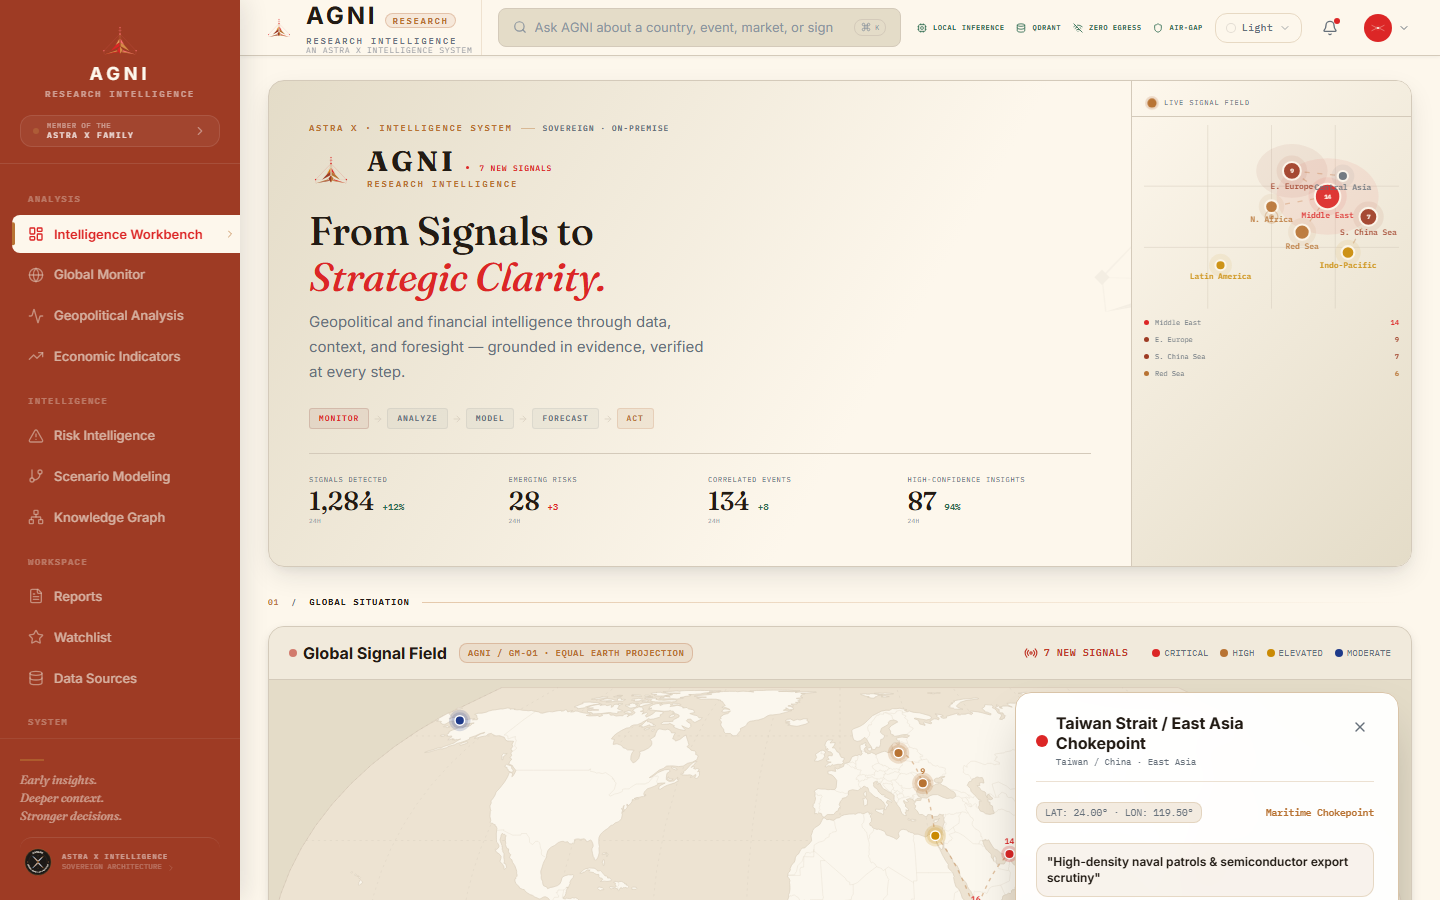
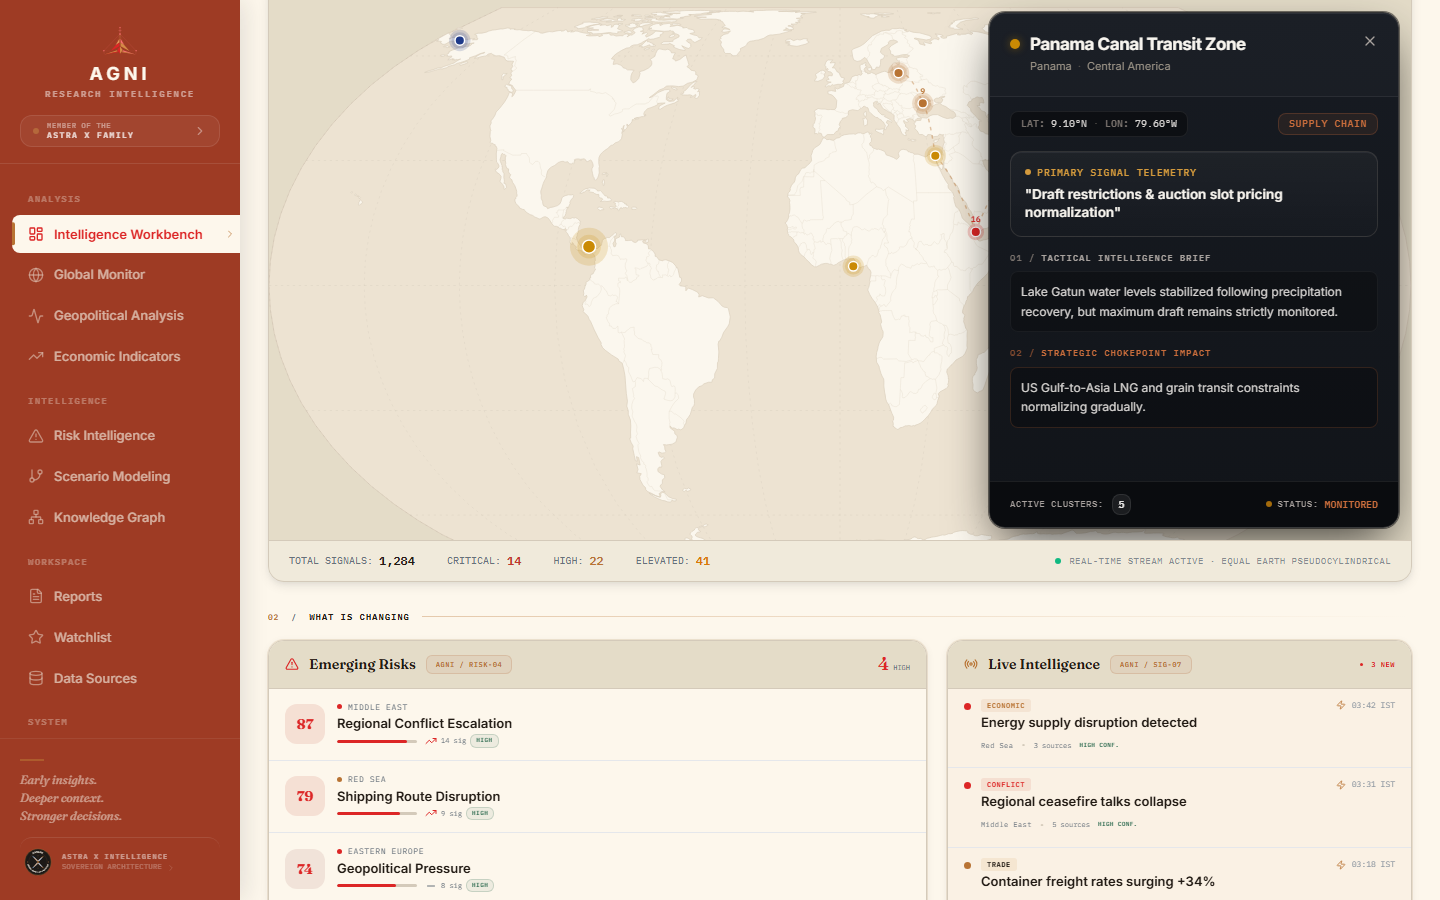
style: refine global signal field intelligence overview card
- refine surface to deep charcoal/warm-black with subtle inner highlight
- elevate primary signal headline inside structured inset
- improve typography hierarchy for tactical and strategic fields
- add monospace coordinate chip and category classification pill
- enhance bottom status strip with active clusters telemetry

diff --git a/frontend/src/components/GlobalSignalField.tsx b/frontend/src/components/GlobalSignalField.tsx
@@ -539,78 +539,120 @@ export const GlobalSignalField: React.FC<{ className?: string; liveCount?: numbe
           </div>
         )}
 
-        {/* ── Signal Detail Drawer (On Node Click) ───────────────────── */}
+        {/* ── Signal Detail Dossier Card (On Node Click) ─────────────── */}
         {activeSignal && (
           <div
-            className="absolute top-3 right-3 bottom-3 w-80 sm:w-96 rounded-xl shadow-2xl border p-5 z-30 flex flex-col justify-between animate-fadeIn bg-white/95 dark:bg-neutral-900/95 border-astra-sandstone-dark"
-            style={{ backdropFilter: 'blur(16px)' }}
+            className="absolute top-3 right-3 bottom-3 w-80 sm:w-[410px] max-w-[calc(100%-24px)] rounded-xl border z-30 flex flex-col justify-between animate-fadeIn text-stone-200 overflow-hidden"
+            style={{
+              background: 'linear-gradient(180deg, #171B22 0%, #111419 100%)',
+              borderColor: 'rgba(214, 197, 178, 0.18)',
+              boxShadow: '0 20px 50px -10px rgba(0, 0, 0, 0.75), inset 0 1px 0 rgba(255, 255, 255, 0.08), 0 0 0 1px rgba(0, 0, 0, 0.5)',
+            }}
           >
-            <div className="space-y-4 overflow-y-auto pr-1">
-              <div className="flex items-start justify-between gap-3 pb-3 border-b border-astra-sandstone-dark/50">
-                <div className="flex items-center gap-2">
+            {/* Header: Status Indicator + Location + Close */}
+            <div className="p-4 sm:p-5 pb-3 border-b border-white/[0.07] bg-white/[0.02]">
+              <div className="flex items-start justify-between gap-3">
+                <div className="flex items-start gap-2.5 min-w-0">
                   <div
-                    className="w-3 h-3 rounded-full"
-                    style={{ backgroundColor: SEVERITY_COLORS[activeSignal.severity].fill }}
+                    className="w-2.5 h-2.5 rounded-full mt-1.5 shrink-0"
+                    style={{
+                      backgroundColor: SEVERITY_COLORS[activeSignal.severity].fill,
+                      boxShadow: `0 0 8px ${SEVERITY_COLORS[activeSignal.severity].fill}70`,
+                    }}
                   />
-                  <div>
-                    <h4 className="font-serif font-bold text-base text-astra-ink leading-tight">
+                  <div className="min-w-0">
+                    <h4 className="font-serif font-bold text-base sm:text-[17px] text-[#F7F4EE] leading-snug tracking-tight truncate">
                       {activeSignal.name}
                     </h4>
-                    <div className="font-mono text-[9px] text-astra-slate mt-0.5">
-                      {activeSignal.country} · {activeSignal.region}
+                    <div className="font-sans text-[11px] text-[#9E9689] mt-0.5 flex items-center gap-1.5">
+                      <span>{activeSignal.country}</span>
+                      <span className="text-stone-600">·</span>
+                      <span>{activeSignal.region}</span>
                     </div>
                   </div>
                 </div>
 
                 <button
                   onClick={() => setActiveSignal(null)}
-                  className="p-1.5 rounded-lg hover:bg-black/5 dark:hover:bg-white/5 text-astra-slate"
+                  className="p-1 rounded-md text-stone-400 hover:text-stone-200 hover:bg-white/[0.08] transition-colors shrink-0 -mr-1 -mt-1"
                   aria-label="Close dossier"
                 >
                   <X className="w-4 h-4" />
                 </button>
               </div>
+            </div>
 
-              {/* Coordinates & Category Pill */}
-              <div className="flex items-center justify-between text-[9.5px] font-mono py-1">
-                <span className="px-2 py-0.5 rounded bg-astra-sandstone/50 border border-astra-sandstone-dark/60 text-astra-slate">
-                  LAT: {activeSignal.latitude.toFixed(2)}° · LON: {activeSignal.longitude.toFixed(2)}°
-                </span>
-                <span className="font-semibold text-agni-copper">
-                  {activeSignal.category}
-                </span>
-              </div>
-
-              {/* Headline */}
-              <div className="p-2.5 rounded-lg bg-astra-sandstone/30 border border-astra-sandstone-dark/60 font-serif text-xs font-semibold text-astra-ink">
-                "{activeSignal.headline}"
-              </div>
-
-              {/* Analytical Brief */}
-              <div className="space-y-1">
-                <div className="font-mono text-[8px] tracking-widest uppercase text-astra-slate font-bold">
-                  TACTICAL INTELLIGENCE BRIEF
+            {/* Structured Intelligence Body */}
+            <div className="px-4 sm:px-5 py-3.5 space-y-3.5 overflow-y-auto flex-1 custom-scrollbar">
+              {/* Coordinates Chip & Category Pill */}
+              <div className="flex items-center justify-between gap-2 text-[10px] font-mono">
+                <div className="inline-flex items-center gap-1.5 px-2.5 py-1 rounded bg-black/40 border border-white/[0.08] text-stone-300">
+                  <span className="text-stone-500 font-semibold">LAT:</span>
+                  <span>{activeSignal.latitude >= 0 ? `${activeSignal.latitude.toFixed(2)}°N` : `${Math.abs(activeSignal.latitude).toFixed(2)}°S`}</span>
+                  <span className="text-stone-600">·</span>
+                  <span className="text-stone-500 font-semibold">LON:</span>
+                  <span>{activeSignal.longitude >= 0 ? `${activeSignal.longitude.toFixed(2)}°E` : `${Math.abs(activeSignal.longitude).toFixed(2)}°W`}</span>
                 </div>
-                <p className="text-xs text-astra-slate leading-relaxed">
+                <div className="inline-flex items-center gap-1 px-2.5 py-0.5 rounded text-[10px] font-mono font-semibold uppercase tracking-wider text-[#C86D3C] bg-[#C86D3C]/10 border border-[#C86D3C]/25">
+                  {activeSignal.category}
+                </div>
+              </div>
+
+              {/* Elevated Inset Surface: Primary Signal / Headline */}
+              <div
+                className="p-3 sm:p-3.5 rounded-lg border leading-snug"
+                style={{
+                  background: 'linear-gradient(180deg, rgba(255, 255, 255, 0.04) 0%, rgba(255, 255, 255, 0.01) 100%)',
+                  borderColor: 'rgba(214, 197, 178, 0.14)',
+                  boxShadow: 'inset 0 1px 0 rgba(255, 255, 255, 0.06)',
+                }}
+              >
+                <div className="text-[9.5px] font-mono uppercase tracking-widest text-[#D49A3D] mb-1.5 flex items-center gap-1.5 font-semibold">
+                  <span className="w-1.5 h-1.5 rounded-full bg-[#D49A3D]" />
+                  <span>PRIMARY SIGNAL TELEMETRY</span>
+                </div>
+                <p className="font-serif text-[13px] sm:text-[13.5px] font-semibold text-[#F7F4EE] leading-snug">
+                  "{activeSignal.headline}"
+                </p>
+              </div>
+
+              {/* Field 01: Tactical Intelligence Brief */}
+              <div className="space-y-1.5">
+                <div className="font-mono text-[9px] tracking-widest uppercase text-stone-400 font-bold flex items-center gap-1.5">
+                  <span className="text-stone-500">01 /</span>
+                  <span>TACTICAL INTELLIGENCE BRIEF</span>
+                </div>
+                <p className="text-[12px] text-stone-300 leading-relaxed font-sans bg-black/25 p-2.5 rounded border border-white/[0.05]">
                   {activeSignal.intelligenceBrief}
                 </p>
               </div>
 
-              {/* Strategic Impact */}
-              <div className="space-y-1">
-                <div className="font-mono text-[8px] tracking-widest uppercase text-agni-copper font-bold">
-                  STRATEGIC CHOKEPOINT IMPACT
+              {/* Field 02: Strategic Chokepoint Impact */}
+              <div className="space-y-1.5">
+                <div className="font-mono text-[9px] tracking-widest uppercase text-[#C86D3C] font-bold flex items-center gap-1.5">
+                  <span className="text-[#C86D3C]/60">02 /</span>
+                  <span>STRATEGIC CHOKEPOINT IMPACT</span>
                 </div>
-                <p className="text-xs text-astra-slate leading-relaxed">
+                <p className="text-[12px] text-stone-300 leading-relaxed font-sans bg-black/25 p-2.5 rounded border border-[#C86D3C]/20">
                   {activeSignal.strategicImpact}
                 </p>
               </div>
             </div>
 
-            {/* Bottom Telemetry Bar */}
-            <div className="pt-3 border-t border-astra-sandstone-dark/60 flex items-center justify-between font-mono text-[9px] text-astra-slate">
-              <span>ACTIVE CLUSTERS: {activeSignal.signalCount}</span>
-              <span className="text-agni-copper font-bold">STATUS: MONITORED</span>
+            {/* Bottom Status & Telemetry Bar */}
+            <div className="px-4 sm:px-5 py-3 border-t border-white/[0.08] bg-black/40 flex items-center justify-between font-mono text-[9.5px]">
+              <div className="flex items-center gap-2">
+                <span className="text-stone-400 uppercase tracking-wider text-[9px]">ACTIVE CLUSTERS:</span>
+                <span className="font-bold text-stone-200 px-1.5 py-0.5 rounded bg-white/[0.07] border border-white/[0.09]">
+                  {activeSignal.signalCount}
+                </span>
+              </div>
+
+              <div className="flex items-center gap-1.5 text-stone-300">
+                <span className="w-1.5 h-1.5 rounded-full bg-amber-500 animate-pulse" />
+                <span className="text-stone-400 text-[9px] uppercase tracking-wider">STATUS:</span>
+                <span className="font-semibold text-[#C86D3C] tracking-wide">MONITORED</span>
+              </div>
             </div>
           </div>
         )}
